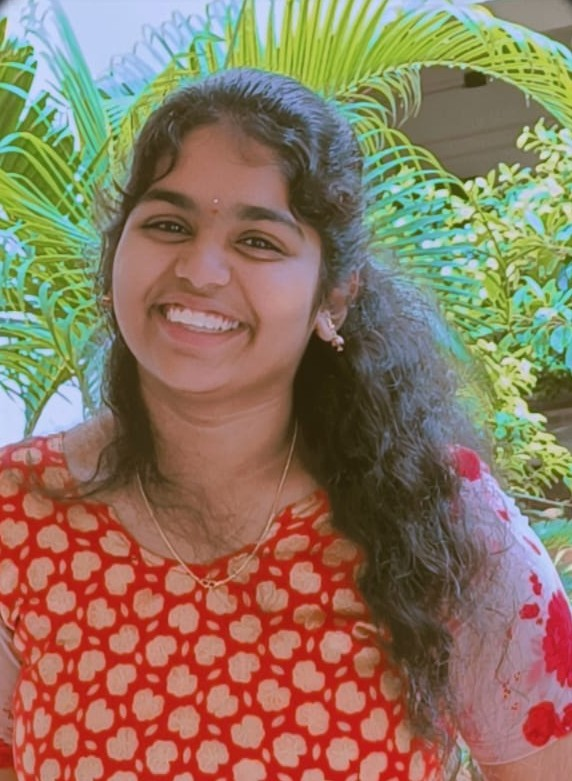
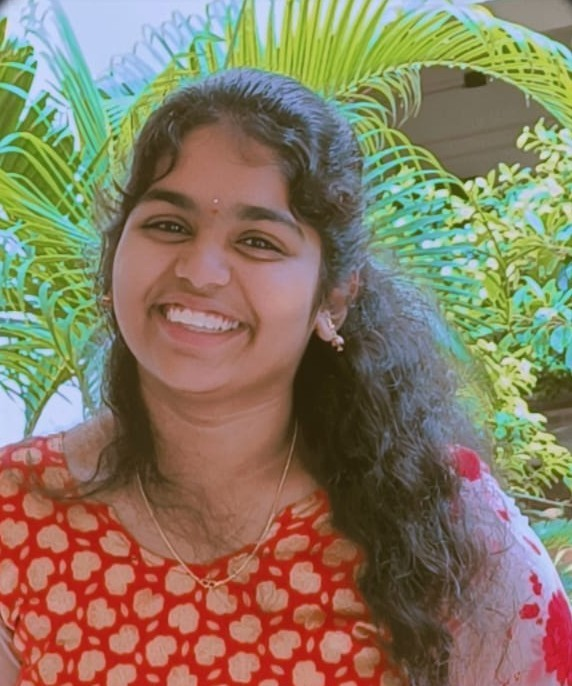
minior Details

diff --git a/devteam.html b/devteam.html
@@ -41,7 +41,7 @@
     <div class="dev-card">
       <div class="card-inner">
         <div class="card-front">
-          <img src="assets/devs/rajesh_devv.jpeg" alt="Developer">
+          <img src="assets/devs/raj.jpeg" alt="Developer">
           <h3>Full Stack Dev</h3>
         </div>
         <div class="card-back">
@@ -134,6 +134,8 @@
       <p>Ensured flawless performance by testing features, identifying bugs, and maintaining overall quality of the project.</p>
       <div class="card-links">
         <a href="https://www.linkedin.com/in/kotapati-eswari-lakshmi-jyothsna-6a8a0635a/" target="_blank" class="link-linkedin">💼 LinkedIn</a>
+        <a href="https://www.instagram.com/miss_kotapati" target="_blank" class="link-insta">📸 Instagram</a>
+     
       </div>
     </div>
   </div>

diff --git a/westgroup.html b/westgroup.html
@@ -155,7 +155,7 @@
 <div class="event-info-grid">
     <div class="info-card">
       <div class="info-card-label">📅 Date & Time</div>
-      <div class="info-card-value">March 25, 2026 · 10:00 AM</div>
+      <div class="info-card-value">April 15, 2026 · 3:40 PM</div>
     </div>
     <div class="info-card">
       <div class="info-card-label">📍 Venue</div>

diff --git a/buildwithai.html b/buildwithai.html
@@ -153,7 +153,7 @@
   <div class="event-info-grid">
     <div class="info-card">
       <div class="info-card-label">📅 Date & Time</div>
-      <div class="info-card-value">April 4, 2026 · 3:40 PM</div>
+      <div class="info-card-value">April 9, 2026 · 3:40 PM</div>
     </div>
     <div class="info-card">
       <div class="info-card-label">📍 Venue</div>

diff --git a/mono.html b/mono.html
@@ -155,7 +155,7 @@
 <div class="event-info-grid">
     <div class="info-card">
       <div class="info-card-label">📅 Date & Time</div>
-      <div class="info-card-value">March 25, 2026 · 10:00 AM</div>
+      <div class="info-card-value">April 8, 2026 · 3:40 PM</div>
     </div>
     <div class="info-card">
       <div class="info-card-label">📍 Venue</div>
